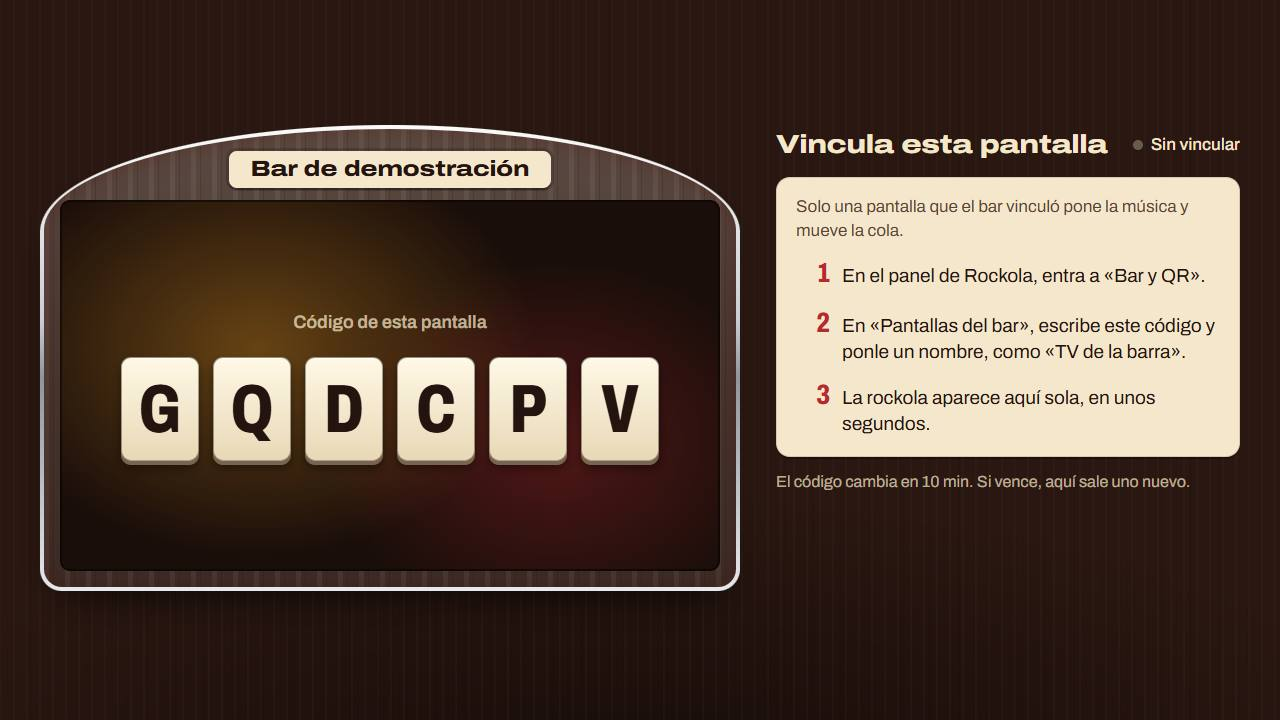
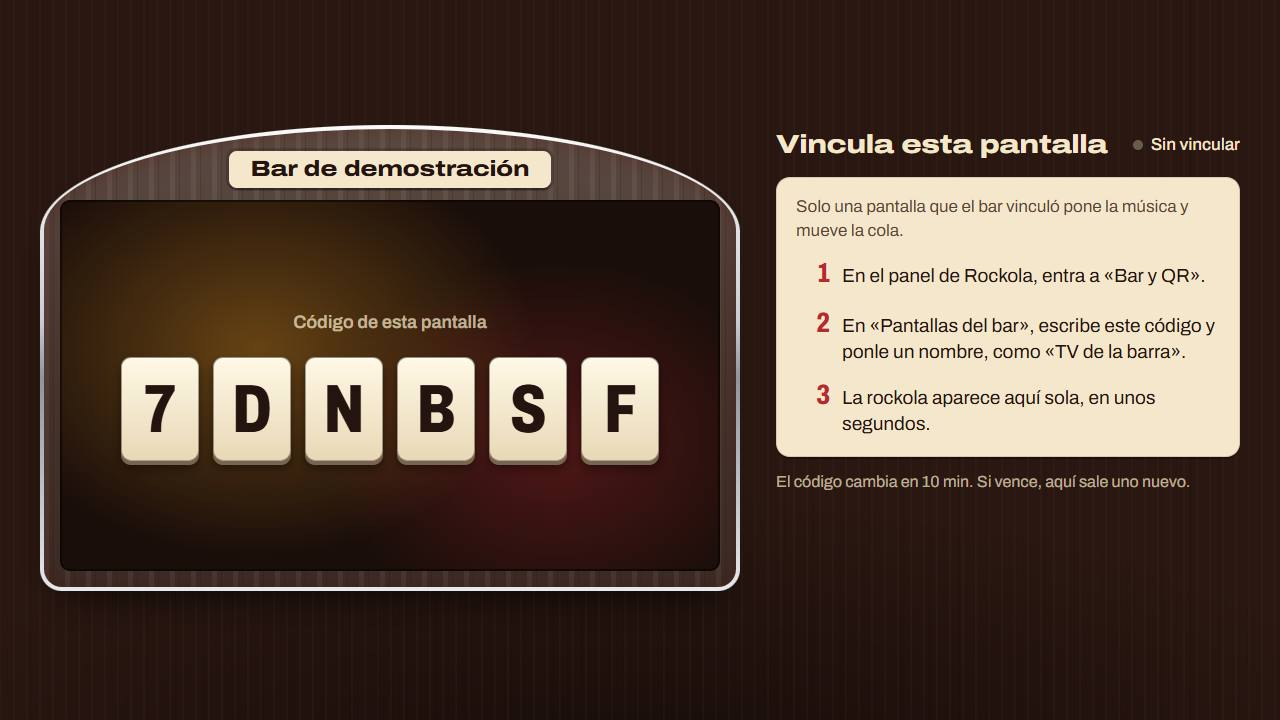
fix(panel): el interruptor del QR y sus teclas caben en el teléfono (RF-065)
A 360 px los textos del interruptor se partían en dos líneas y el icono de
Descargar se encogía hasta desaparecer.

diff --git a/frontend/web/e2e/gestion.spec.ts b/frontend/web/e2e/gestion.spec.ts
@@ -159,9 +159,9 @@ test('destino del QR: el mismo código abre la web o, en Android, ofrece la app 
   await page.goto('/panel/establecimiento');
   const qr = page.getByRole('region', { name: 'Código QR de las mesas' });
   const url = (await qr.locator('.qr-grande__url').textContent())!;
-  await expect(qr.getByRole('radio', { name: 'Abrir la web' })).toBeChecked();
+  await expect(qr.getByRole('radio', { name: 'La web' })).toBeChecked();
   await sinViolaciones(page, 'destino del QR');
-  await qr.getByRole('radio', { name: 'Descargar la app' }).check();
+  await qr.getByRole('radio', { name: 'La app' }).check();
   await expect(qr.getByText('Listo: el QR ahora ofrece la app.')).toBeVisible();
   await expect(qr.locator('.qr-grande__url')).toHaveText(url);
   const estado = await page.evaluate(() => localStorage.getItem('rockola.sim.v1'));
@@ -187,7 +187,7 @@ test('destino del QR: el mismo código abre la web o, en Android, ofrece la app 
     await contexto.close();
   }
 
-  await qr.getByRole('radio', { name: 'Abrir la web' }).check();
+  await qr.getByRole('radio', { name: 'La web' }).check();
   await expect(qr.getByText('Listo: el QR ahora abre la web.')).toBeVisible();
 });
 

diff --git a/frontend/web/components/gestion/Establecimiento.tsx b/frontend/web/components/gestion/Establecimiento.tsx
@@ -261,12 +261,12 @@ function ElegirDestino({ qr }: { qr: QrEstablecimiento }) {
   return (
     <div className="qr-destino">
       <GrupoTeclas
-        leyenda="Al escanear el QR"
+        leyenda="El QR lleva a"
         nombre="destino-qr"
         valor={valor}
         opciones={[
-          { valor: 'web', texto: 'Abrir la web' },
-          { valor: 'app', texto: 'Descargar la app', deshabilitada: !qr.apk_disponible },
+          { valor: 'web', texto: 'La web' },
+          { valor: 'app', texto: 'La app', deshabilitada: !qr.apk_disponible },
         ]}
         onCambio={(destino) => {
           if (cambiar.isPending || destino === qr.destino) return;

diff --git a/packages/ui/src/panel.css b/packages/ui/src/panel.css
@@ -282,7 +282,8 @@
   .qr-destino .grupo-teclas .tecla { width: 100%; }
   .qr-destino__nota { font-size: 14px; color: var(--crema-2); }
   .qr-acciones { display: grid; grid-template-columns: repeat(2, minmax(0, 1fr)); gap: 10px; margin-top: auto; }
-  .qr-acciones > * { width: 100%; }
+  .qr-acciones > * { width: 100%; padding-inline: 8px; }
+  .qr-acciones svg { flex: none; }
   .qr-acciones > :last-child { grid-column: 1 / -1; }
   @media (min-width: 640px) and (max-width: 1099px) {
     .qr-acciones { grid-template-columns: repeat(3, minmax(0, 1fr)); }
